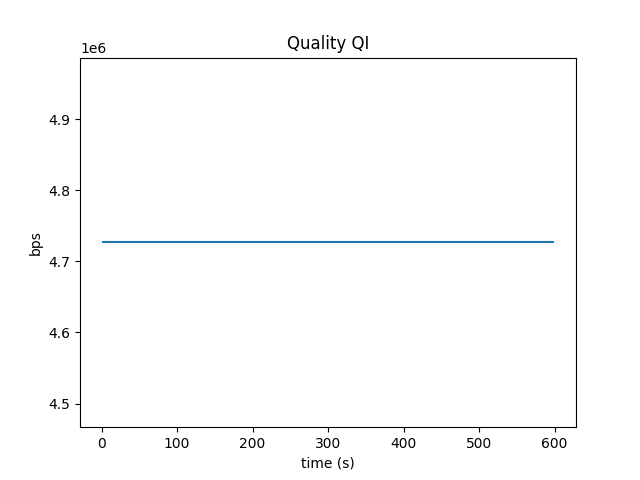
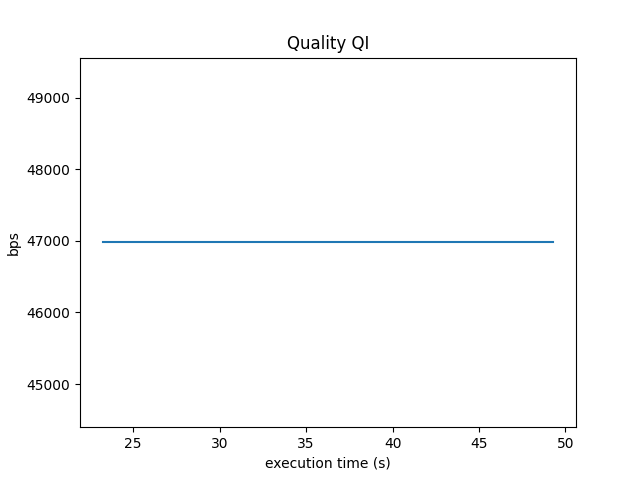
Starting Traffic Shaping Implementation.

diff --git a/player/player.py b/player/player.py
@@ -67,11 +67,14 @@ class Player(SimpleModule):
         self.started_time = time.perf_counter()
         self.lock.release()
 
+        self.request_time = 0
+
         self.playback_qi = OutVector()
         self.playback_quality_qi = OutVector()
         self.playback_pauses = OutVector()
         self.playback = OutVector()
         self.playback_buffer_size = OutVector()
+        self.throughputs = OutVector()
 
     def get_qi(self, quality_qi):
         return self.qi.index(quality_qi)
@@ -131,7 +134,7 @@ class Player(SimpleModule):
 
                 buffer_size = len(self.buffer) - self.buffer_played
                 self.playback_buffer_size.add(current_time, buffer_size)
-                print(f'Simulation Time {current_time} > buffer size: {buffer_size}')
+                print(f'Current Execution Time {current_time} > buffer size: {buffer_size}')
 
                 if self.pause_started_at is not None:
                     #pause_time = (time.time_ns() - self.pause_started_at) * 1e-9
@@ -139,17 +142,19 @@ class Player(SimpleModule):
                     self.playback_pauses.add(current_time, pause_time)
                     self.pause_started_at = None
             else:
-                self.pauses_number += 1
                 #self.pause_started_at = time.time_ns()
-                self.pause_started_at = current_time
                 self.playback.add(current_time, 0)
+
+                if self.pause_started_at is None:
+                    self.pauses_number += 1
+                    self.pause_started_at = current_time
 
             #update buffer_size
             buffer_size = len(self.buffer) - self.buffer_played
             self.lock.release()
 
             if (not threading.main_thread().is_alive() or self.kill_playback_thread) and buffer_size <= 0:
-                print(f'Simulation Time {current_time}  thread {threading.get_ident()} will be killed.')
+                print(f'Current Execution Time {current_time}  thread {threading.get_ident()} will be killed.')
                 break
 
             #playback steps
@@ -166,10 +171,16 @@ class Player(SimpleModule):
         # adding the segment in the buffer
         self.store_in_buffer(self.get_qi(msg.get_quality_id()), msg.get_segment_size())
 
+        #statistical purpose
+        current_time = self.get_current_time()
+        buffer_size = self.get_amount_of_video_to_play()
+        self.playback_buffer_size.add(current_time, buffer_size)
+        print(f'Current Execution Time {current_time} > buffer size: {buffer_size}')
+
         if self.buffer_initialization and self.get_amount_of_video_to_play() >= self.buffering_until:
             self.buffer_initialization = False
+            print(f'Current Execution Time {self.get_current_time()} buffering process is concluded')
             self.playback_thread.start()
-            print(f'Simulation Time {self.get_current_time()} buffering process is concluded')
             # start the process to play the video
 
         #if not self.buffer_initialization and self.get_amount_of_video_to_play() > 0:
@@ -186,7 +197,8 @@ class Player(SimpleModule):
         if self.already_downloading:
             raise ValueError('Something doesn\'t look right, a segment is already being downloaded!')
 
-        segment_request = SSMessage(MessageKind.SEGMENT_REQUEST)
+        self.request_time = time.perf_counter()
+        segment_request   = SSMessage(MessageKind.SEGMENT_REQUEST)
 
         url_tokens = self.url_mpd.split('/')
 
@@ -210,12 +222,9 @@ class Player(SimpleModule):
 
     def finalization(self):
 
-        self.log(self.playback_quality_qi, 'playback_quality_qi', 'Quality QI', 'bps')
-        self.log(self.playback_pauses, 'playback_pauses', 'Pauses Number',  'number')
-        self.log(self.playback, 'playback', 'Playback History', 'on/off')
-        self.log(self.playback_qi, 'playback_qi', 'Quality Index', 'QI')
-        self.log(self.playback_buffer_size, 'playback_buffer_size', 'Buffer Size', 'seconds')
-        pass
+        print(f'Pauses number: {self.pauses_number}')
+
+        self.logging_all_statistics()
 
 
     def handle_xml_response(self, msg):
@@ -230,18 +239,15 @@ class Player(SimpleModule):
         self.already_downloading = False
 
         current_time     = self.get_current_time()
-        print(f'Simulation Time {current_time} > received: {msg}')
+        print(f'Current Execution Time {current_time} > received: {msg}')
 
         if msg.found():
+            self.throughputs.add(current_time, msg.get_bit_length() /(time.perf_counter() - self.request_time))
             self.buffering_video_segment(msg)
 
-            #for statistical purpose
-            amount_of_video = self.get_amount_of_video_to_play()
-            self.playback_buffer_size.add(current_time, amount_of_video)
-
             #still have space in buffer to download next ss
-            if amount_of_video >= self.max_buffer_size:
-                print(f'Simulation Time {current_time} Maximum buffer size is achieved... the principal process will sleep now.')
+            if self.get_amount_of_video_to_play() >= self.max_buffer_size:
+                print(f'Current Execution Time {current_time} Maximum buffer size is achieved... the principal process will sleep now.')
                 self.player_thread_events.wait()
 
             self.request_next_segment()
@@ -255,12 +261,20 @@ class Player(SimpleModule):
                 self.playback_thread.join()
             '''
         else:
-            print(f'Simulation Time {current_time} All video\'s segments was downloaded')
+            print(f'Current Execution Time {current_time} All video\'s segments was downloaded')
             self.kill_playback_thread = True
             if self.playback_thread.is_alive():
                 self.playback_thread.join()
 
-    def log(self, log, file_name, title, y_axis, x_axis = 'time (s)'):
+    def logging_all_statistics(self):
+        self.log(self.playback_quality_qi, 'playback_quality_qi', 'Quality QI', 'bps')
+        self.log(self.playback_pauses, 'playback_pauses', 'Pauses Size', 'Pauses Size')
+        self.log(self.playback, 'playback', 'Playback History', 'on/off')
+        self.log(self.playback_qi, 'playback_qi', 'Quality Index', 'QI')
+        self.log(self.playback_buffer_size, 'playback_buffer_size', 'Buffer Size', 'seconds')
+        self.log(self.throughputs, 'throughputs', 'Throughput Variation', 'bps')
+
+    def log(self, log, file_name, title, y_axis, x_axis = 'execution time (s)'):
         items = log.items
 
         if len(items) == 0:
@@ -278,6 +292,8 @@ class Player(SimpleModule):
         plt.title(title)
 
         plt.savefig(f'./results/{file_name}.png')
+        plt.clf()
+        plt.cla()
         plt.close()
 
 

diff --git a/connection/connection_handler.py b/connection/connection_handler.py
@@ -1,7 +1,11 @@
 from base.simple_module import SimpleModule
 from base.message import Message, MessageKind
+from base.configuration_parser import ConfigurationParser
+from player.parser import *
 import http.client
 import time
+from scipy.stats import expon
+import seaborn as sns
 
 """
 The ConnectionHandler is a Singleton class implementation
@@ -15,25 +19,51 @@ class ConnectionHandler(SimpleModule):
         self.rtt_length = []
         self.initial_time = 0
 
+        #for traffic shaping
+        config_parser = ConfigurationParser.get_instance()
+        self.traffic_shaping_interval = int(config_parser.get_parameter('traffic_shaping_profile_interval'))
+        self.traffic_shaping_seed     = int(config_parser.get_parameter('traffic_shaping_seed'))
+        self.traffic_shaping_values   = []
+        self.traffic_shaping_sequence = []
+
+        token = config_parser.get_parameter('traffic_shaping_profile_sequence')
+        for i in range(len(token)):
+
+            if token[i] == 'L':
+                self.traffic_shaping_sequence.append(0)
+            elif token[i] == 'M':
+                self.traffic_shaping_sequence.append(1)
+            elif token[i] == 'H':
+                self.traffic_shaping_sequence.append(2)
+
+
     def initialize(self):
         # self.send_down(Message(MessageKind.SEGMENT_REQUEST, 'Olá Mundo'))
 
         pass
 
-    def bandwidth_limitation(self):
-        pass
+    def bandwidth_limitation(self, package_size=0):
+        if package_size == 0:
+            return
+
+        target_throughput = 10000
+        spent_time = time.perf_counter() - self.initial_time
+        throughput = package_size / spent_time
+
+        #we didn't pass our throughput go
+        if target_throughput >= throughput:
+            return
+
+        waiting_time = (package_size - target_throughput * spent_time) /  target_throughput
+        time.sleep(waiting_time)
 
     def finalization(self):
-        print("Measurements at Connection Handler Level: ")
-        print(self.rtt_length)
-        print("Measured throughput")
-        for i in self.rtt_length:
-            print(f'{round(i[1]/i[0]):>10} bps')
         pass
-
-    #    def handle_message(self, msg):
-    #        print(f'ConnectionHandler recebi uma msg {msg.get_payload()}')
-    #        pass
+#        print("Measurements at Connection Handler Level: ")
+#        print(self.rtt_length)
+#        print("Measured throughput")
+#        for i in self.rtt_length:
+#            print(f'{round(i[1]/i[0]):>10} bps')
 
     def handle_xml_request(self, msg):
         if not 'http://' in msg.get_payload():
@@ -63,6 +93,18 @@ class ConnectionHandler(SimpleModule):
 
         self.rtt_length.append([round(time.perf_counter() - self.initial_time, 6), msg.get_bit_length()])
 
+        parsed_mpd = parse_mpd(msg.get_payload())
+        qi = parsed_mpd.get_qi()
+
+        increase_factor = 1
+        low    = round(qi[len(qi)-1] * increase_factor)
+        medium = round(qi[(len(qi)//2)-1] * increase_factor)
+        high   = round(qi[0] * increase_factor)
+
+        self.traffic_shaping_values.append([round(x) for x in expon.rvs(scale=1,loc=low,size=10,random_state=self.traffic_shaping_seed)])
+        self.traffic_shaping_values.append([round(x) for x in expon.rvs(scale=1,loc=medium,size=10,random_state=self.traffic_shaping_seed)])
+        self.traffic_shaping_values.append([round(x) for x in expon.rvs(scale=1,loc=high,size=10,random_state=self.traffic_shaping_seed)])
+
         self.send_up(msg)
 
     def handle_segment_size_request(self, msg):
@@ -71,7 +113,6 @@ class ConnectionHandler(SimpleModule):
         path_name = msg.get_url()
         ss_file = ''
         self.initial_time = time.perf_counter()
-
 
         try:
             connection = http.client.HTTPConnection(host_name, port)
@@ -93,14 +134,11 @@ class ConnectionHandler(SimpleModule):
         except UnicodeDecodeError:
             # if wasn't possible to decode() is a ss
             msg.add_bit_length(8*len(ss_file))
+            self.bandwidth_limitation(msg.get_bit_length())
             decoded = True
 
         if not decoded and '404 Not Found' in ss_file:
             msg.set_found(False)
-
-        self.bandwidth_limitation()
-
-
 
         self.rtt_length.append([round(time.perf_counter() - self.initial_time, 6), msg.get_bit_length()])
 

diff --git a/r2a/r2afixed.py b/r2a/r2afixed.py
@@ -22,7 +22,7 @@ class R2AFixed(IR2A):
 
     def handle_segment_size_request(self, msg):
         # Hora de definir qual qualidade será escolhida
-        msg.add_quality_id(self.qi[19])
+        msg.add_quality_id(self.qi[0])
 
         self.send_down(msg)
 

diff --git a/base/message.py b/base/message.py
@@ -77,7 +77,7 @@ class SSMessage(Message):
     def get_quality_id(self):
         return self.quality_id
 
-    def set_found(self, status):
+    def set_found(self, status=True):
         self.__found = status
 
     def found(self):

diff --git a/player/out_vector.py b/player/out_vector.py
@@ -8,6 +8,9 @@ class OutVector:
     def add(self, t, item):
         self.items.append([t, item])
 
+    def __len__(self):
+        return len(self.items)
+
     def __str__(self):
         return self.items.__str__()
 
